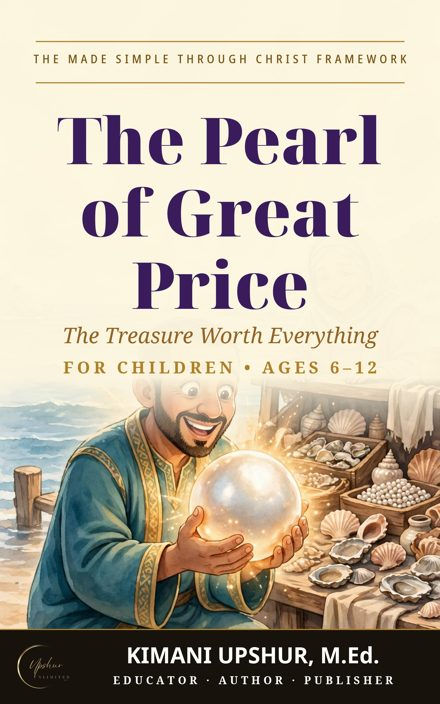
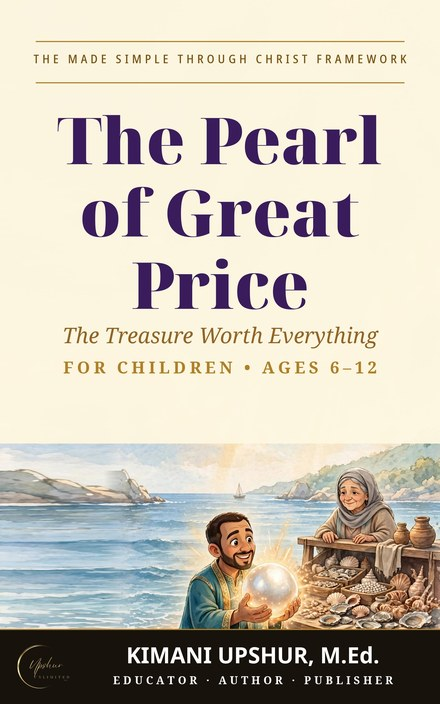
batch203: split re-points — Boundaries adult Payhip HYJmK (was teens Vug0H), Golden Rule kids button ZPCwn + kids cover of record, Pearl adult Payhip WpqA1, Pearl kids recomposed cover

diff --git a/books/boundaries-made-simple/index.html b/books/boundaries-made-simple/index.html
@@ -44,7 +44,7 @@
 <div class="tags"><a class="tagpill" href="/categories/family-relationships/">Family &amp; Relationships</a><a class="tagpill" href="/categories/cluster-communication/">Communication</a></div>
 <p class="desc">Saying yes to everything is saying no to yourself. Boundaries Made Simple — subtitled How to Set Clear Limits, Communicate Your Needs, and Protect What Matters — shows you how to draw the line. Boundaries, it argues, are not walls and not selfishness: they are the clear, honest communication of what you need, what you will accept, and where you stand, and without them relationships are built on performance rather than reality. The book moves in four parts. First it explains what boundaries actually are, why people struggle to set them, and the cost of living without them. Then it works through where boundaries are needed — in relationships, at work, and with family. The third part turns practical: identifying your limits, communicating boundaries clearly in respectful, specific language, and knowing what to do when a boundary is crossed. The final part covers the guilt that comes with boundaries — and why that guilt is usually conditioned rather than genuine — boundaries and self-respect, and building a boundaried life, closing with a final chapter on the life you protect. Direct, warm, and practical throughout, it treats setting a limit not as ending a relationship but as renegotiating the terms on which it can honestly continue.
 Written from a Christian worldview — Scripture first.</p>
-<div class="uu-buybox"><h2>Get This Book</h2><p class="uu-note">Ebook $4.99 · Audiobook $9.99 — also check your favorite retailer.</p><div class="uu-buybtns"><a class="uu-buybtn primary" href="https://play.google.com/store/audiobooks/details?id=AQAAAEBGtWz1OM" rel="nofollow noopener">Listen on Google Play Books</a><a class="uu-buybtn" href="https://play.google.com/store/books/details?id=UQLNEQAAQBAJ" rel="nofollow noopener">Google Play</a><a class="uu-buybtn amz" href="https://www.amazon.com/dp/B0GHXHSWTW?tag=upshurunlimit-20" rel="nofollow sponsored noopener">Amazon</a><a class="uu-buybtn" href="https://books.apple.com/us/book/boundaries-made-simple/id6816796187?uo=4" rel="nofollow noopener">Apple Books</a><a class="uu-buybtn" href="https://upshurunlimitedllc.gumroad.com/l/hcxva" rel="nofollow noopener">Gumroad</a><a class="uu-buybtn" href="https://payhip.com/b/Vug0H" rel="nofollow noopener">Buy on Payhip</a></div></div>
+<div class="uu-buybox"><h2>Get This Book</h2><p class="uu-note">Ebook $4.99 · Audiobook $9.99 — also check your favorite retailer.</p><div class="uu-buybtns"><a class="uu-buybtn primary" href="https://play.google.com/store/audiobooks/details?id=AQAAAEBGtWz1OM" rel="nofollow noopener">Listen on Google Play Books</a><a class="uu-buybtn" href="https://play.google.com/store/books/details?id=UQLNEQAAQBAJ" rel="nofollow noopener">Google Play</a><a class="uu-buybtn amz" href="https://www.amazon.com/dp/B0GHXHSWTW?tag=upshurunlimit-20" rel="nofollow sponsored noopener">Amazon</a><a class="uu-buybtn" href="https://books.apple.com/us/book/boundaries-made-simple/id6816796187?uo=4" rel="nofollow noopener">Apple Books</a><a class="uu-buybtn" href="https://upshurunlimitedllc.gumroad.com/l/hcxva" rel="nofollow noopener">Gumroad</a><a class="uu-buybtn" href="https://payhip.com/b/HYJmK" rel="nofollow noopener">Buy on Payhip</a></div></div>
 <div class="details"><dl>
 <dt>Publisher</dt><dd>Upshur Unlimited, LLC</dd>
 <dt>Author</dt><dd>Kimani Upshur, M.Ed.</dd>

diff --git a/books/the-pearl-of-great-price-made-simple/index.html b/books/the-pearl-of-great-price-made-simple/index.html
@@ -44,7 +44,7 @@
 <div class="tags"><a class="tagpill" href="/categories/christian-living/">Christian Living</a></div>
 <p class="desc">Two verses. Sixty-six words in the King James. One merchant who found a pearl worth everything he owned. The Pearl of Great Price — Selling All for the Kingdom — takes Matthew 13:45-46 and opens it across eleven chapters: the merchant and his seeking, what makes the pearl great, selling all as a joyful cost rather than a grim one, and the kingdom the pearl pictures. The middle chapters face the rivals honestly — the goodly pearls we love, and the rich young ruler who walked away from the same bargain — before turning to security: the pearl cannot be lost. The book closes with living like a pearl-owner and bringing another merchant to the market. Each chapter follows the same steady pattern: Scripture first, then the teaching rooted in the text, reflection questions to sit with, application steps to live out, and a prayer. A closing prayer and the conclusion "The Pearl Is Worth It All" end the book. Read it the way the merchant sought — eagerly, deliberately, and ready to act when you find what you came for.
 Written from a Christian worldview — Scripture first.</p>
-<div class="uu-buybox"><h2>Get This Book</h2><p class="uu-note">Ebook $4.99 — also check your favorite retailer.</p><div class="uu-buybtns"><a class="uu-buybtn primary" href="https://payhip.com/b/taRF6" rel="nofollow noopener">Buy on Payhip</a></div></div>
+<div class="uu-buybox"><h2>Get This Book</h2><p class="uu-note">Ebook $4.99 — also check your favorite retailer.</p><div class="uu-buybtns"><a class="uu-buybtn primary" href="https://payhip.com/b/WpqA1" rel="nofollow noopener">Buy on Payhip</a></div></div>
 <div class="details"><dl>
 <dt>Publisher</dt><dd>Upshur Unlimited, LLC</dd>
 <dt>Author</dt><dd>Kimani Upshur, M.Ed.</dd>

diff --git a/kids/the-golden-rule/index.html b/kids/the-golden-rule/index.html
@@ -34,7 +34,7 @@
 <p class="byline">by Kimani Upshur, M.Ed.</p>
 <div class="tags"><span class="tagpill">For Children • Ages 6–12</span></div>
 <p class="desc">Treat others like Jesus said. Do to others what you would have them do to you — one rule for friendship, school, and siblings.</p>
-<div class="uu-buybox"><h2>Get This Book</h2><p class="uu-note">Ebook $4.99</p><div class="uu-buybtns"><a class="uu-buybtn primary" href="https://play.google.com/store/books/details?id=q20ZEgAAQBAJ" rel="nofollow noopener">Google Play</a><a class="uu-buybtn" href="https://payhip.com/b/n7yDa" rel="nofollow noopener">Buy on Payhip</a><a class="uu-buybtn" href="https://books.apple.com/us/book/the-golden-rule/id6821305169" rel="nofollow noopener">Buy on Apple Books</a></div></div>
+<div class="uu-buybox"><h2>Get This Book</h2><p class="uu-note">Ebook $4.99</p><div class="uu-buybtns"><a class="uu-buybtn primary" href="https://play.google.com/store/books/details?id=q20ZEgAAQBAJ" rel="nofollow noopener">Google Play</a><a class="uu-buybtn" href="https://payhip.com/b/ZPCwn" rel="nofollow noopener">Buy on Payhip</a><a class="uu-buybtn" href="https://books.apple.com/us/book/the-golden-rule/id6821305169" rel="nofollow noopener">Buy on Apple Books</a></div></div>
 <div class="details"><dl>
 <dt>Publisher</dt><dd>Upshur Unlimited, LLC</dd>
 <dt>Author</dt><dd>Kimani Upshur, M.Ed.</dd>
